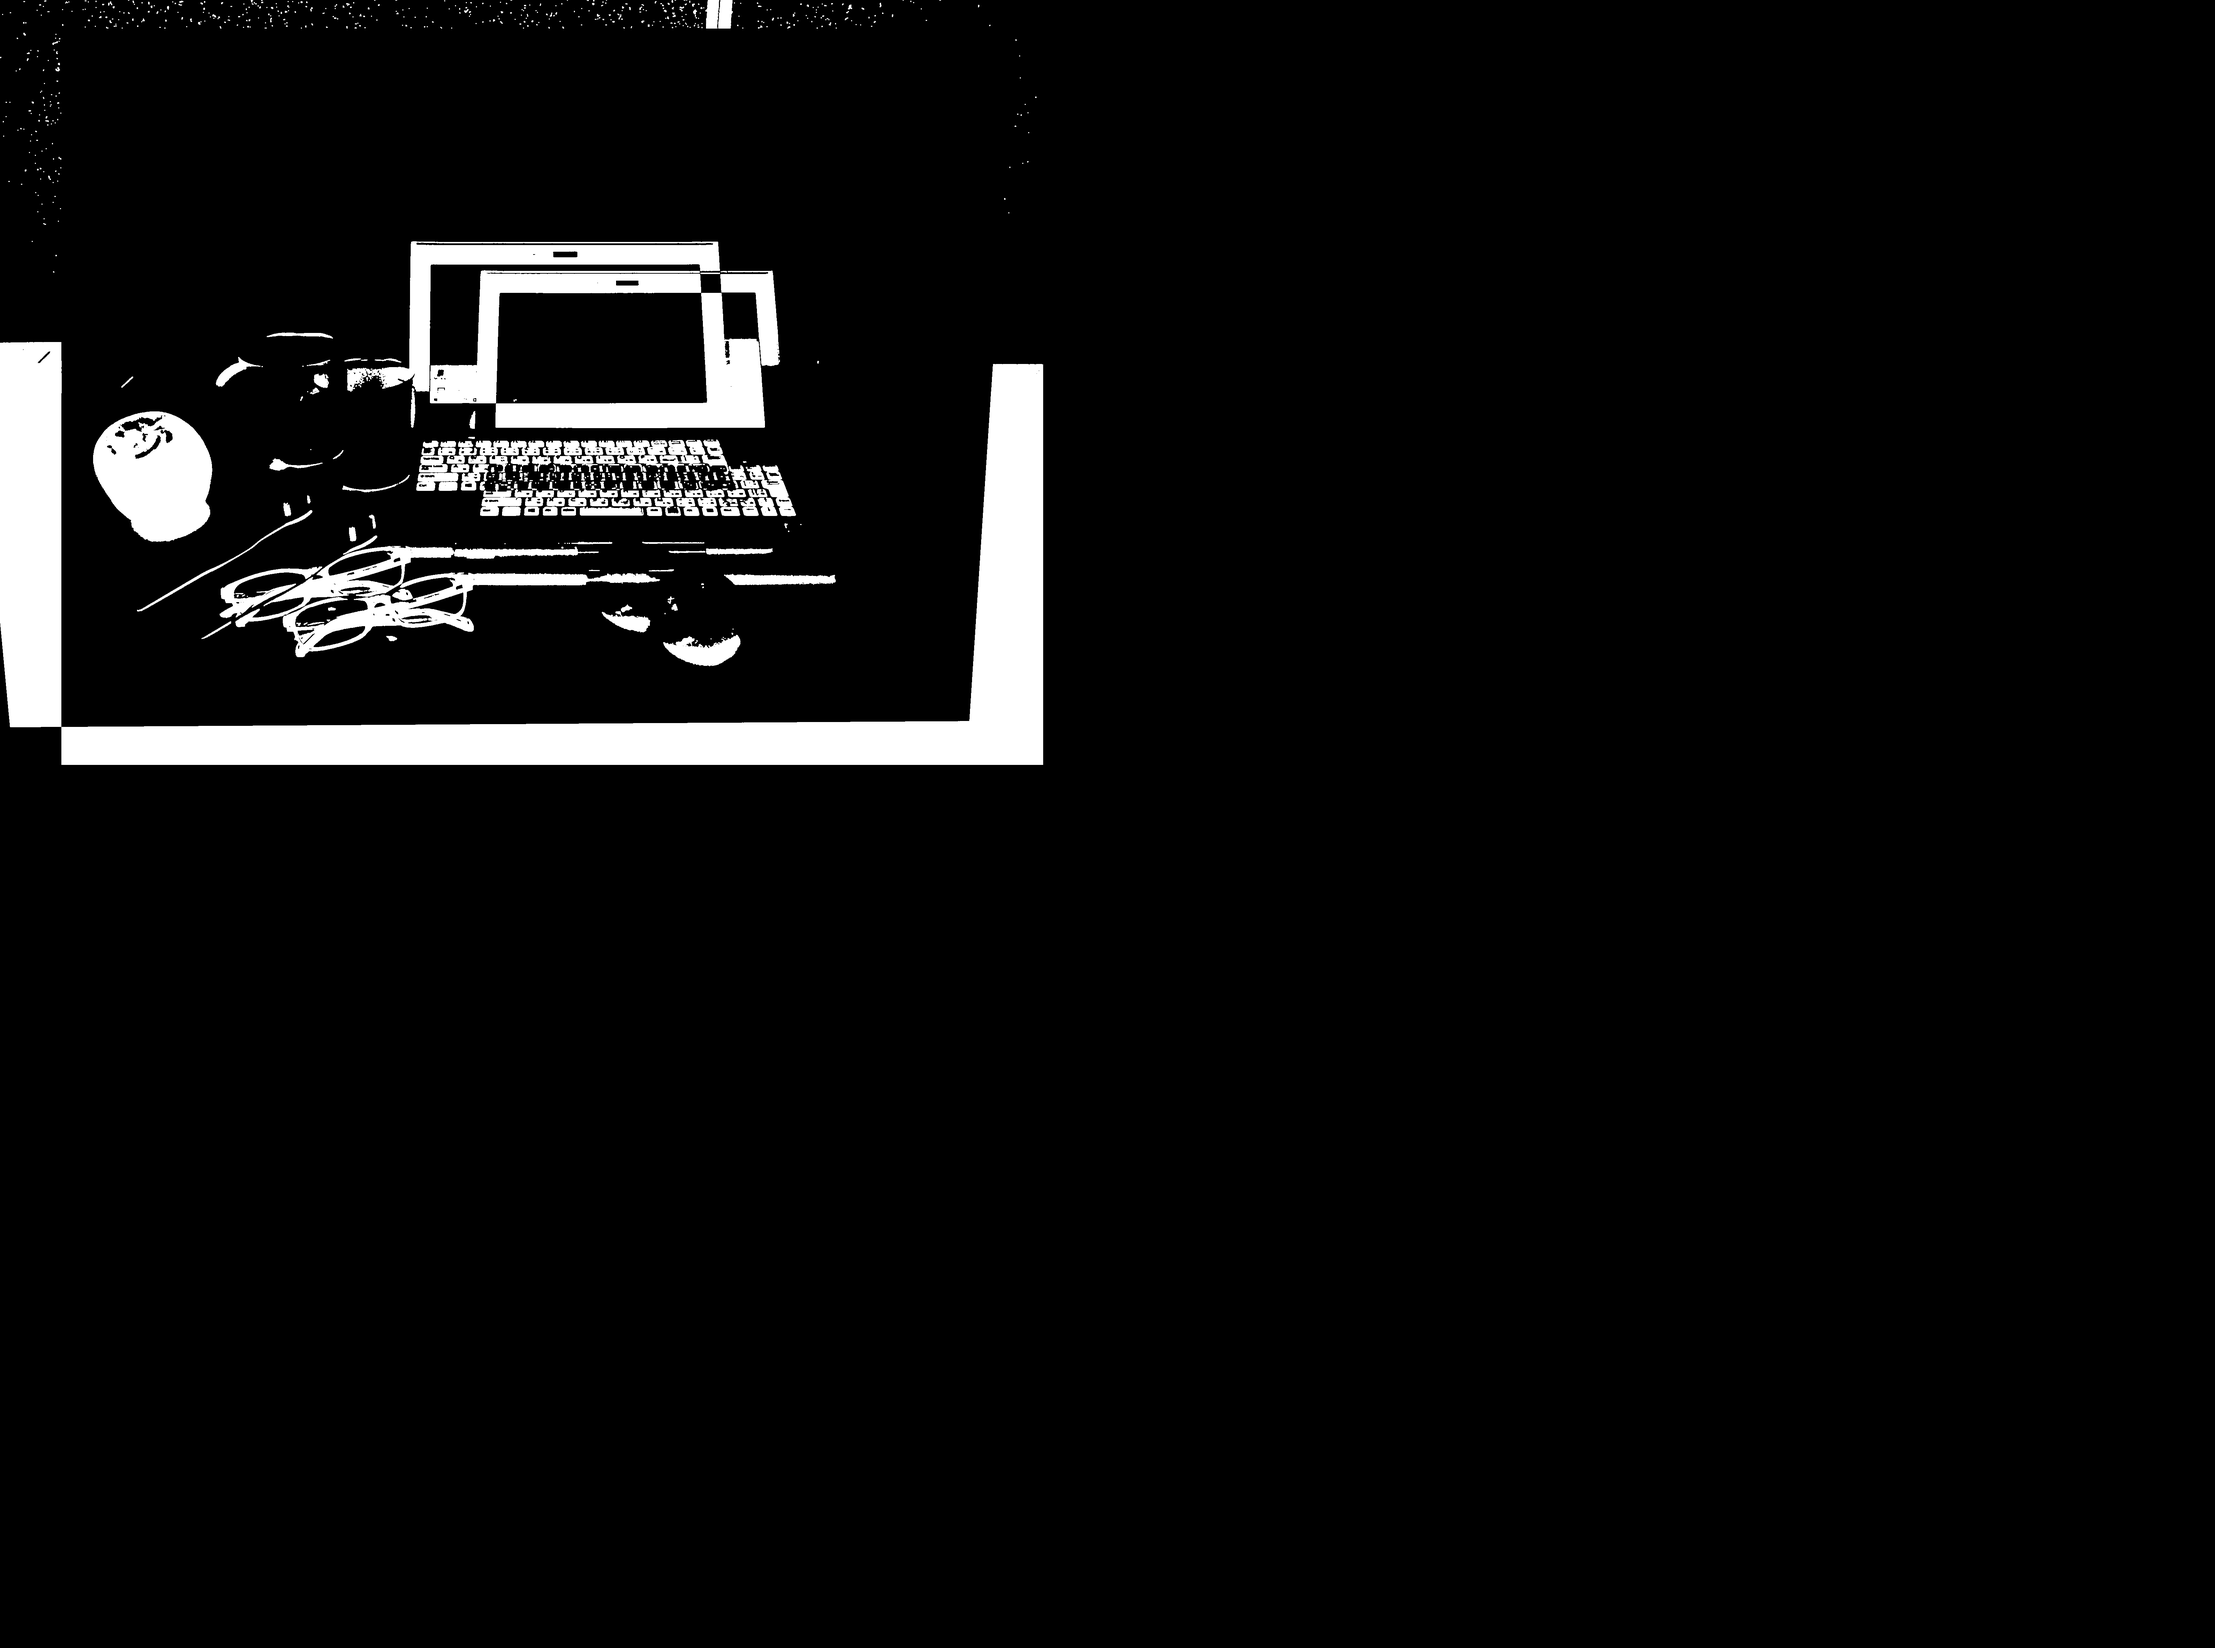
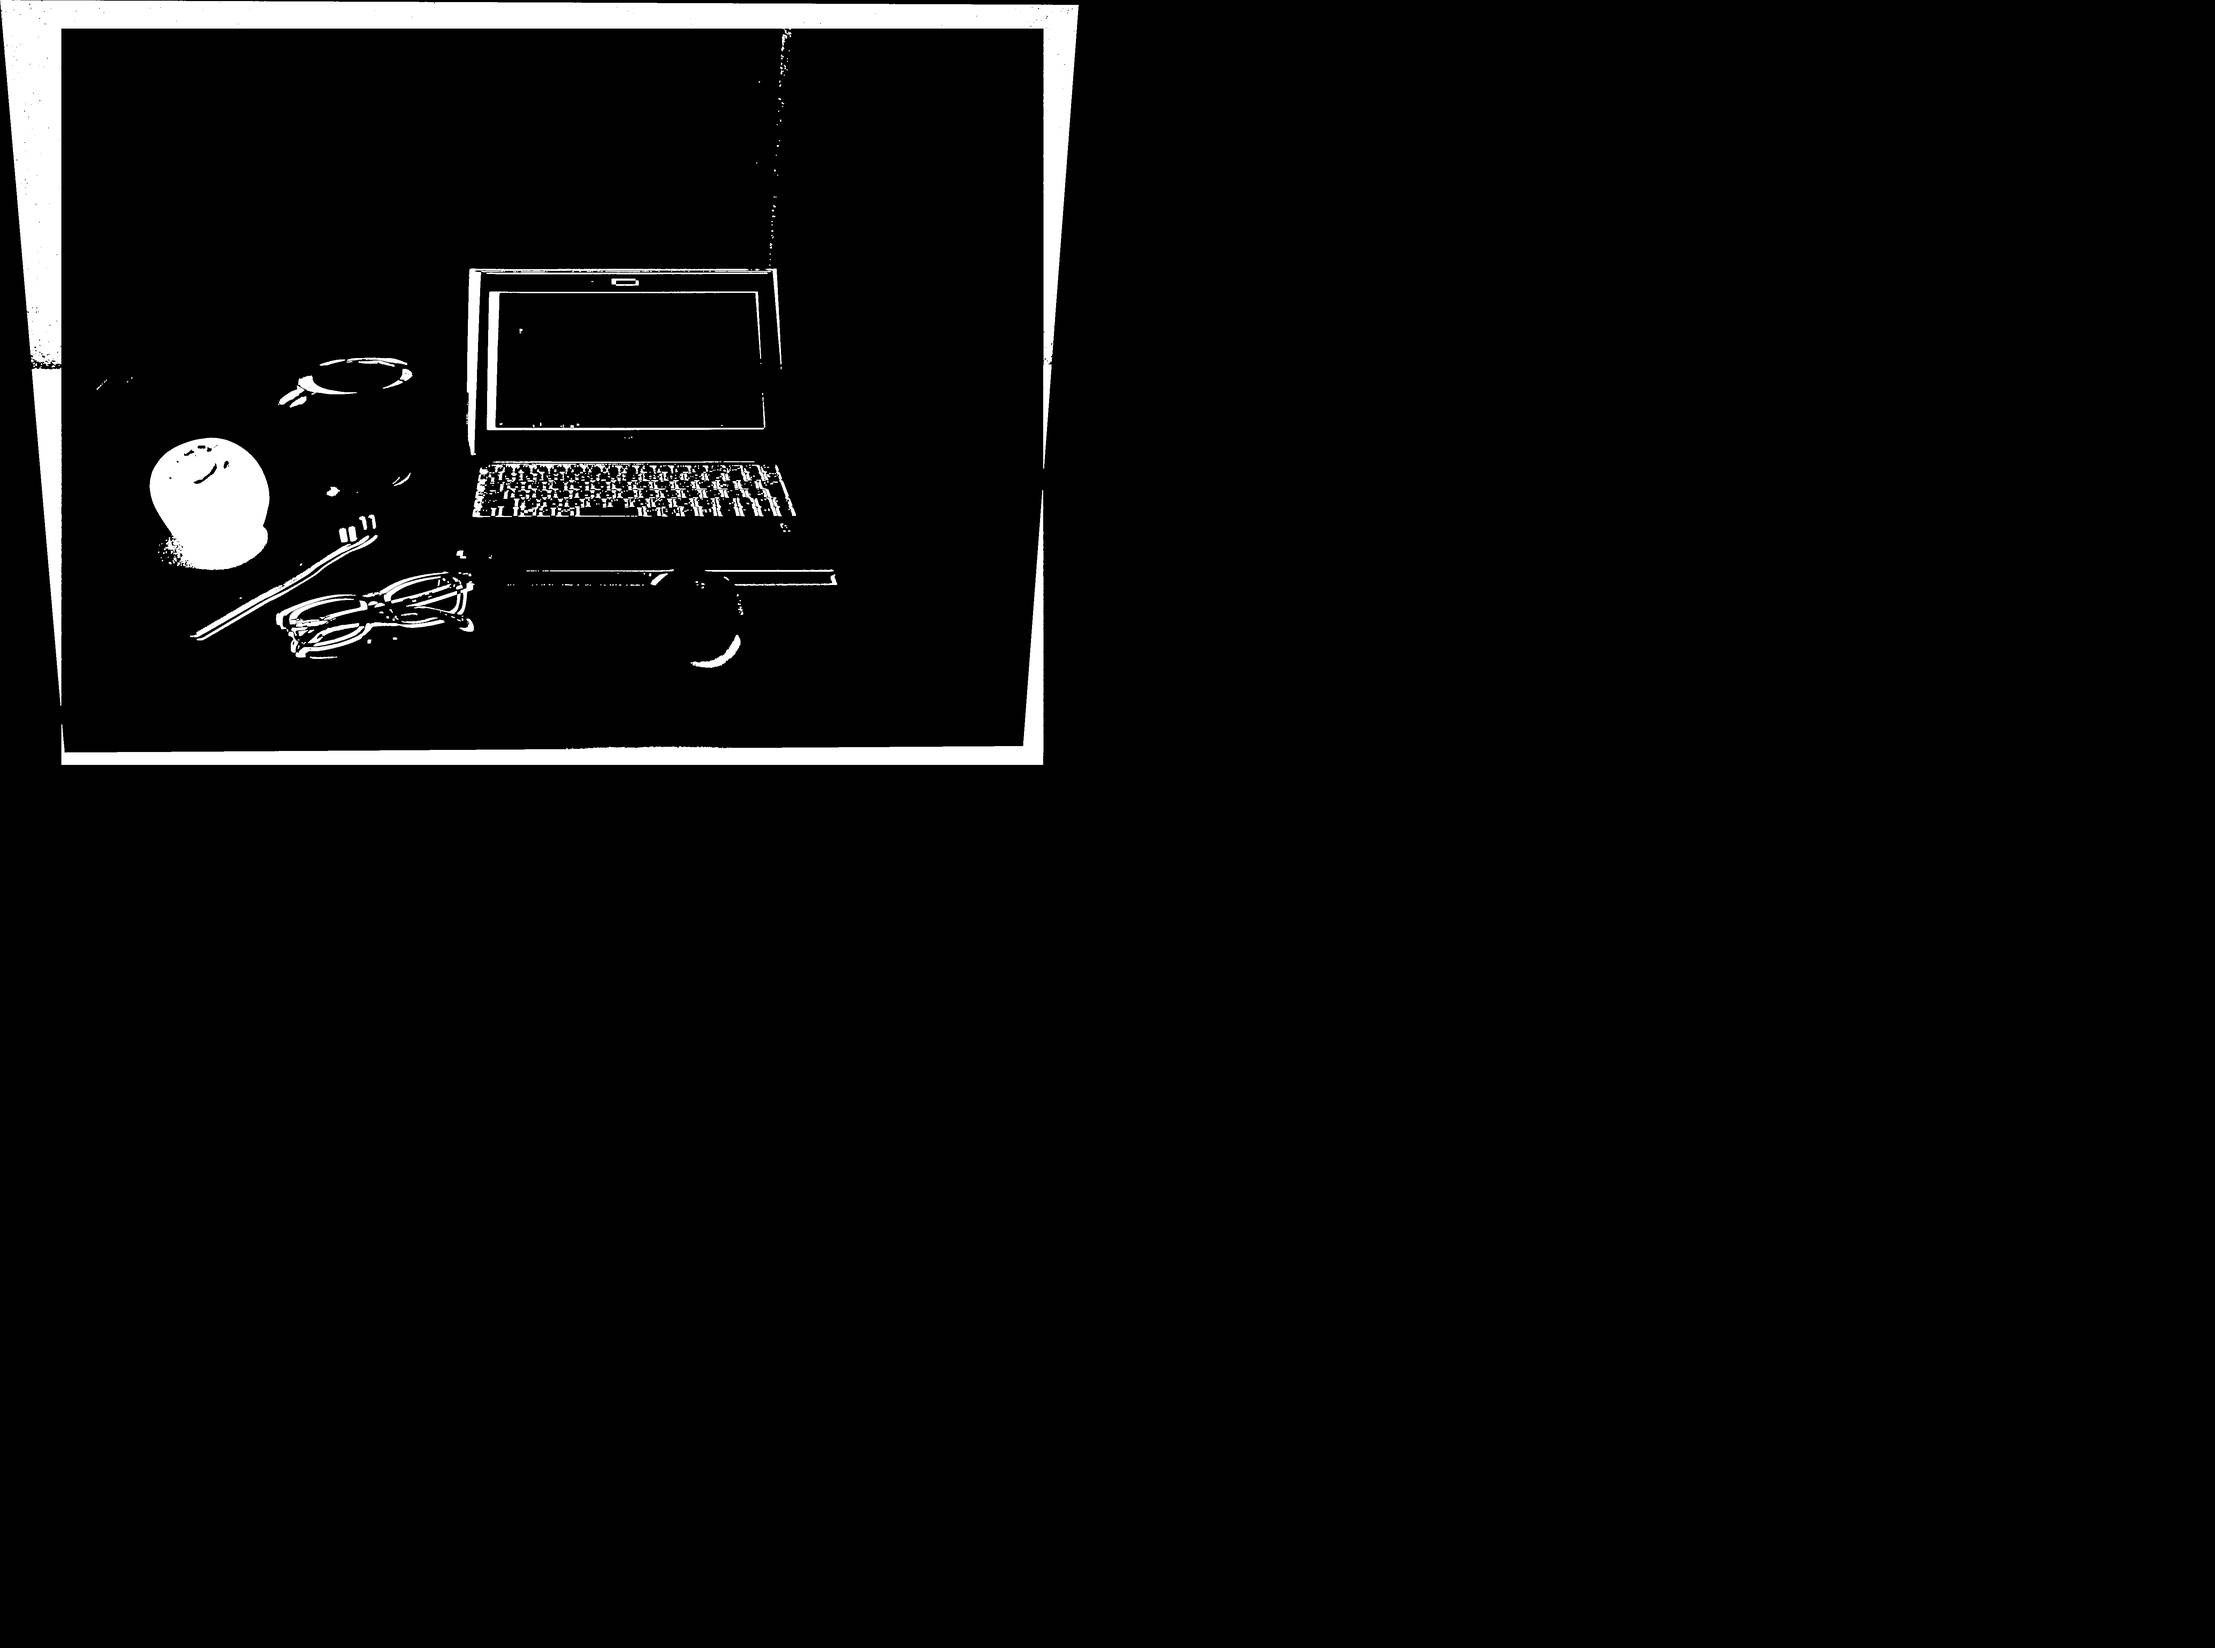
Forth Commit

Changed region(s): [[0.0, 0.0, 0.4987, 0.4665]]

diff --git a/src/FindObject.java b/src/FindObject.java
@@ -49,11 +49,51 @@ class FindObject {
 		DescriptorMatcher matcher = DescriptorMatcher.create(1); // 1 = FLANNBASED
 		MatOfDMatch matches = new MatOfDMatch();
 		matcher.match(descriptor_object, descriptor_scene, matches);
-		List<DMatch> matchesList = matches.toList();
+		
+		//ここから
+		List<MatOfDMatch> knnmatch_points = new ArrayList<MatOfDMatch>();
+		matcher.knnMatch(descriptor_object, descriptor_scene, knnmatch_points, 2);
+		
+		final double match_par = 0.6;
+		LinkedList<DMatch> good_matches2 = new LinkedList<DMatch>();
+		MatOfDMatch gm2 = new MatOfDMatch();
+		LinkedList<Point> match_point1 = new LinkedList<Point>();
+		LinkedList<Point> match_point2 = new LinkedList<Point>();
+		
+		for(int i = 0; i< knnmatch_points.size(); ++i){
+			MatOfDMatch matofDMatch = knnmatch_points.get(i);
+			DMatch[] dmatcharray = matofDMatch.toArray();
+			DMatch m1 = dmatcharray[0];
+			DMatch m2 = dmatcharray[1];
+			
+			
+			if(m1.distance< m2.distance*match_par){
+				good_matches2.addLast(m1);
+				match_point1.add(keypoints_object.toList().get(m1.queryIdx).pt);
+				match_point2.add(keypoints_scene.toList().get(m2.trainIdx).pt);
+			}
+		}
+		gm2.fromList(good_matches2);
+		MatOfPoint2f m_p1 = new MatOfPoint2f();
+		m_p1.fromList(match_point1);
+		MatOfPoint2f m_p2 = new MatOfPoint2f();
+		m_p2.fromList(match_point2);
+		
+		Mat masks = new Mat();
+		Mat test = Calib3d.findHomography(m_p1, m_p2, 1, Calib3d.RANSAC, masks);
 
+		System.out.println(masks.get(0, 0)[0]);
+		Mat img_matches2 = new Mat();
+		Features2d.drawMatches(img_object, keypoints_object, img_scene, keypoints_scene, gm2, img_matches2, new Scalar(255,0,0), new Scalar(0,0,255), new MatOfByte(), 2);
+		
+		Highgui.imwrite("./resources/test.jpg", img_matches2);
+		//ここまで
+		
+		
+		
+		List<DMatch> matchesList = matches.toList();
 		Double max_dist = 0.0;
 		Double min_dist = 100.0;
-
 		//最小距離
 		//-- Quick calculation of max and min distances between keypoints
 		for(int i = 0; i < descriptor_object.rows(); i++){
@@ -61,13 +101,10 @@ class FindObject {
 			if(dist < min_dist) min_dist = dist;
 			if(dist > max_dist) max_dist = dist;
 		}
-
 		System.out.println("-- Max dist : " + max_dist);
 		System.out.println("-- Min dist : " + min_dist);    
-
 		LinkedList<DMatch> good_matches = new LinkedList<DMatch>();
 		MatOfDMatch gm = new MatOfDMatch();
-
 		//-- Draw only "good" matches (i.e. whose distance is less than 3*min_dist )
 		for(int i = 0; i < descriptor_object.rows(); i++){
 			if(matchesList.get(i).distance < 2.5*min_dist){
@@ -106,7 +143,6 @@ class FindObject {
 
 		MatOfPoint2f obj = new MatOfPoint2f();
 		obj.fromList(objList);
-
 		MatOfPoint2f scene = new MatOfPoint2f();
 		scene.fromList(sceneList);
 
